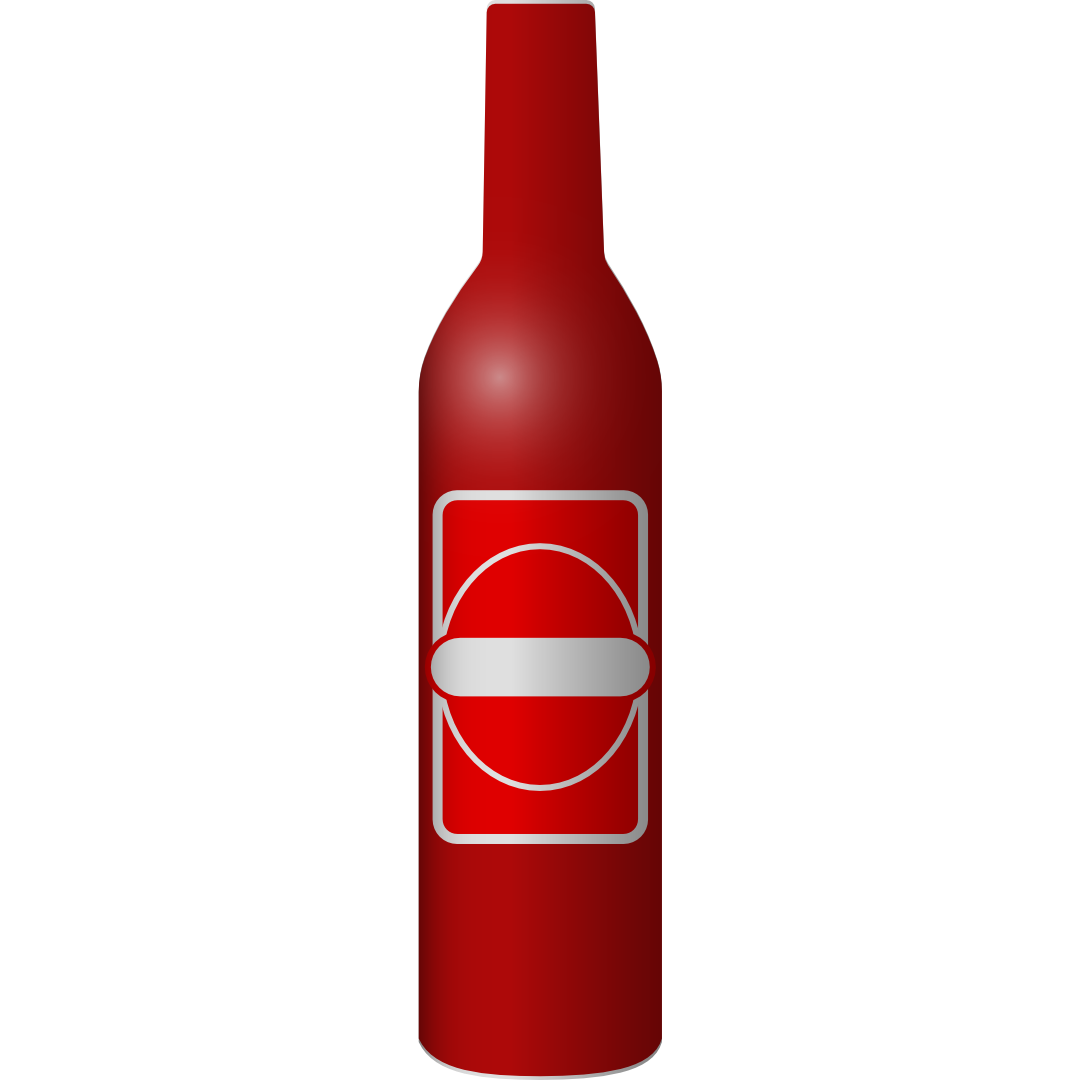
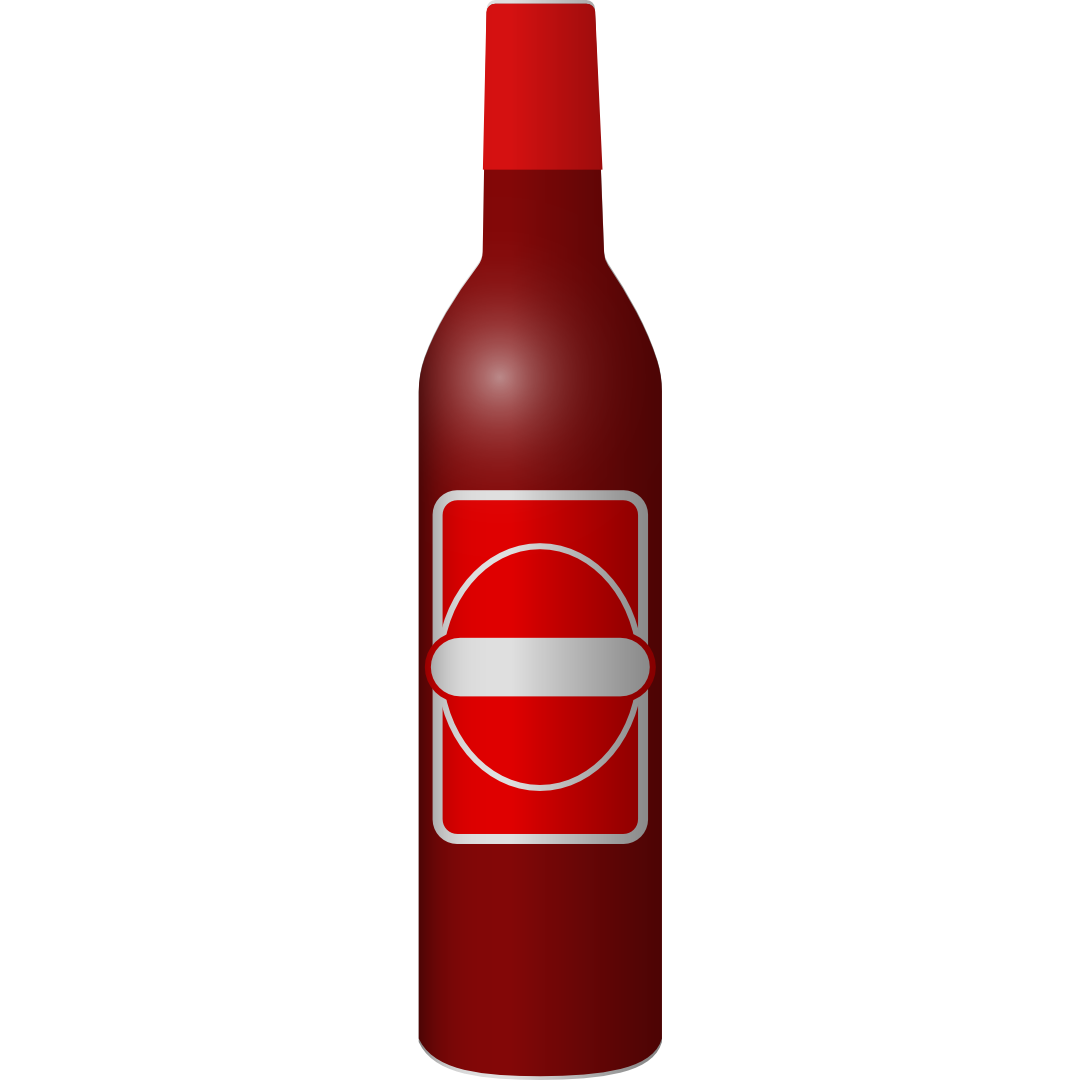
feat: darker bottle with cork (compass-needle-4); bump SW cache v4

Changed region(s): [[0.3667, 0.0, 0.6111, 1.0]]

diff --git a/web/sw.js b/web/sw.js
@@ -1,6 +1,6 @@
 // Gompashi PWA service worker — offline-first app shell + bundled store data.
 // Bump CACHE when assets or data change so clients pick up the new version.
-const CACHE = "gompashi-v3";
+const CACHE = "gompashi-v4";
 const ASSETS = [
   "./",
   "./index.html",
